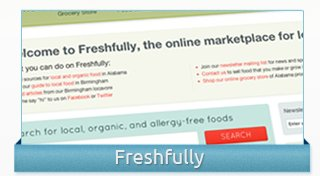
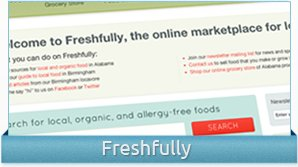
more work on the implementation of mockup4

diff --git a/app/assets/stylesheets/style.css.less b/app/assets/stylesheets/style.css.less
@@ -514,7 +514,8 @@ p {
 }
 /* 17 TEMPLATE SPECIFICS ============================================================================= */
 body{
-  width: 100%;
+  //width: 100%;
+  width: 320px;
 }
 header h1{
   font-size: 2em;
@@ -532,6 +533,7 @@ header h1 a{
     height: 101px;
     z-index: 10;
     position: relative;
+    margin-bottom: 0;
   }
   header h1 span{
     display: none;
@@ -572,6 +574,11 @@ header h1 a{
     z-index: 100;
     position: relative;
   }
+  #what-we-do{
+    .portfolio{
+      margin-left: 10px;
+    }
+  }
   #how-we-do-it{
     ol{
       list-style: decimal;
@@ -590,7 +597,7 @@ header h1 a{
         }
         p{
           font-size: .85em;
-          color: 3999;
+          color: #999;
         }
       }
     }
